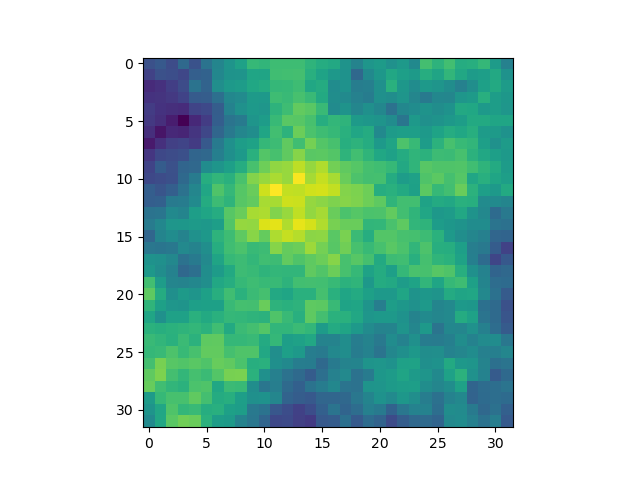
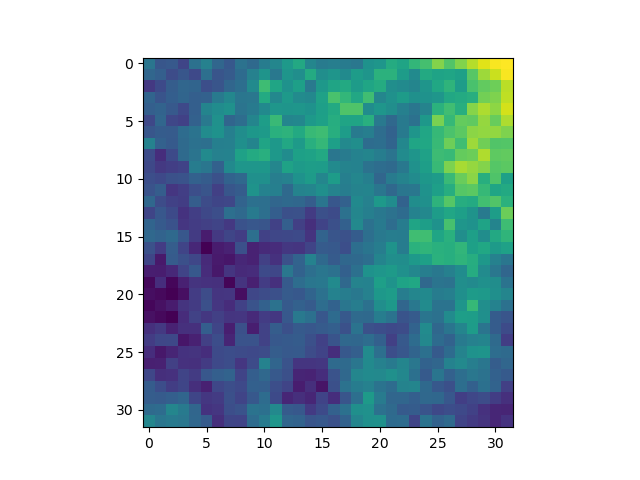
val data br model 3 diffusion ref image 1

diff --git a/brown_resnick/sde_diffusion/masked/unparameterized_masked_score/evaluation/diffusion_generation/conditional_mask_data_generation.py b/brown_resnick/sde_diffusion/masked/unparameterized_masked_score/evaluation/diffusion_generation/conditional_mask_data_generation.py
@@ -9,7 +9,7 @@ evaluation_folder = append_directory(2)
 sys.path.append(evaluation_folder)
 from helper_functions import *
 
-score_model = load_score_model("schlather", "model4_beta_min_max_01_20_range_2.2_smooth_1.9_random025_log_parameterized_mask.pth", "eval")
+score_model = load_score_model("brown", "model3_beta_min_max_01_20_range_10_smooth_1_random015_log_parameterized_mask.pth", "eval")
 
 sdevp = load_sde(beta_min = .1, beta_max = 20, N = 1000)
 #mask is a True/False (1,32,32) vector with .5 randomly missing pixels
@@ -65,27 +65,57 @@ def generate_validation_data(process_type, folder_name, n, range_value, smooth_v
         conditional_samples = np.concatenate([conditional_samples, sample_unconditionally_multiple_calls(sdevp, score_model, device, mask, y, n,
                                           replicates_per_call, calls)], axis = 0)
 
+def generate_validation_data_with_reference_image(process_type, folder_name, n, range_value, smooth_value, replicates_per_call, calls, p, validation_data_name):
+
+    seed_value = int(np.random.randint(0, 100000))
+    number_of_replicates = 1
+
+    if(os.path.exists(os.path.join(os.getcwd(), folder_name, "diffusion")) == False):
+        os.mkdir(os.path.join(os.getcwd(), folder_name, "diffusion"))
+
+
+    device = "cuda:0"
+    mask = np.load((folder_name + "/mask.npy"))
+    ref_img = np.load((folder_name + "/ref_image.npy"))
+    partially_observed = (mask*ref_img)
+
+    conditional_samples = np.zeros((0,1,n,n))
+    np.save((folder_name + "/partially_observed_field.npy"), partially_observed.reshape((n,n)))
+
+    mask = th.from_numpy(mask.reshape((1,1,n,n)))
+    ref_img = th.from_numpy(ref_img.reshape((1,1,n,n)))
+    y = ((th.mul(mask, ref_img)).to(device)).float()
+    mask = mask.float().to(device)
+
+
+    for i in range(0, calls):
+
+        conditional_samples = np.concatenate([conditional_samples, sample_unconditionally_multiple_calls(sdevp, score_model, device, mask, y, n,
+                                          replicates_per_call, calls)], axis = 0)
+
     
 
     np.save((folder_name + "/diffusion/" + validation_data_name), conditional_samples)
 
-    plot_spatial_field(ref_img.detach().cpu().numpy().reshape((n,n)), -2, 6, (folder_name + "/ref_image.png"))
-    plot_spatial_field((conditional_samples[0,:,:,:]).numpy().reshape((n,n)), -2, 6, (folder_name + "/diffusion_sample.png"))
-    plot_masked_spatial_field(spatial_field = ref_img.reshape((n,n)),
-                   vmin = -2, vmax = 6, mask = mask.int().float().detach().cpu().numpy().reshape((n,n)), figname = (folder_name + "/partially_observed_field.png"))
+    ref_img = ref_img.detach().cpu().numpy().reshape((n,n))
+    mask = mask.float().detach().cpu().numpy().reshape((n,n))
+    plot_spatial_field(ref_img, -2, 6, (folder_name + "/ref_image.png"))
+    plot_spatial_field((conditional_samples[0,:,:,:]).reshape((n,n)), -2, 6, (folder_name + "/diffusion_sample.png"))
+    plot_masked_spatial_field(spatial_field = ref_img,
+                   vmin = -2, vmax = 6, mask = mask, figname = (folder_name + "/partially_observed_field.png"))
     
 
 
-process_type = "schlather"
-folder_name = "data/schlather/model4/ref_image1"
+process_type = "brown"
+folder_name = "data/model3/ref_image1"
 n = 32
-range_value = 2.2
-smooth_value = 1.9
+range_value = 10
+smooth_value = 1
 replicates_per_call = 250
 calls = 4
-p = 0
-validation_data_name = "model4_random" + str(p) + "4000.npy"
-generate_validation_data(process_type, folder_name, n, range_value, smooth_value, replicates_per_call, calls, p, validation_data_name)
+p = .015
+validation_data_name = "model3_5obsn_4000.npy"
+generate_validation_data_with_reference_image(process_type, folder_name, n, range_value, smooth_value, replicates_per_call, calls, p, validation_data_name)
 
 
 

diff --git a/brown_resnick/sde_diffusion/masked/unparameterized_masked_score/evaluation/helper_functions.py b/brown_resnick/sde_diffusion/masked/unparameterized_masked_score/evaluation/helper_functions.py
@@ -20,7 +20,10 @@ def load_score_model(process_type, model_name, mode):
     config = ncsnpp_config.get_config()
 
     score_model = th.nn.DataParallel((ncsnpp.NCSNpp(config)).to("cuda:0"))
-    score_model.load_state_dict(th.load((sde_folder + "/trained_score_models/vpsde/" + process_type + "/" + model_name)))
+    if(process_type == "schlather"):
+        score_model.load_state_dict(th.load((sde_folder + "/trained_score_models/vpsde/" + process_type + "/" + model_name)))
+    else:
+        score_model.load_state_dict(th.load((sde_folder + "/trained_score_models/vpsde/" + model_name)))
     if(mode == "train"):
         score_model.train()
     else:
